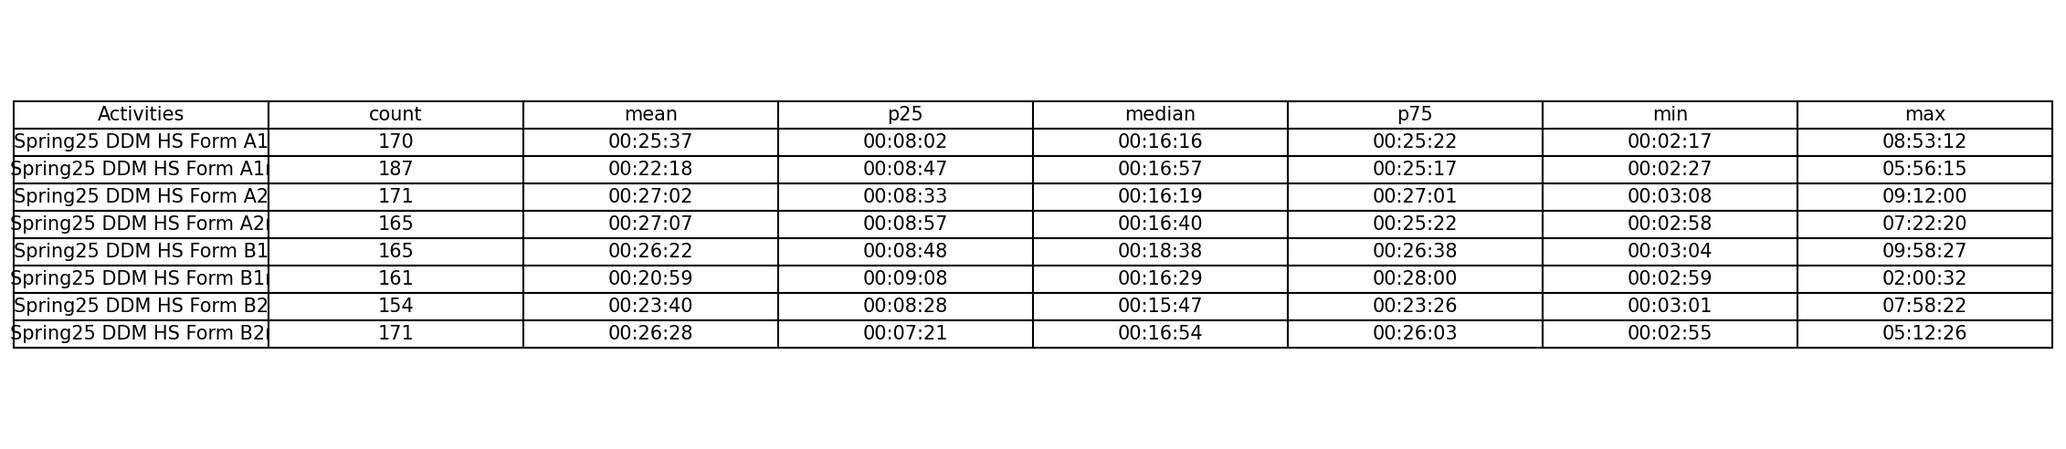
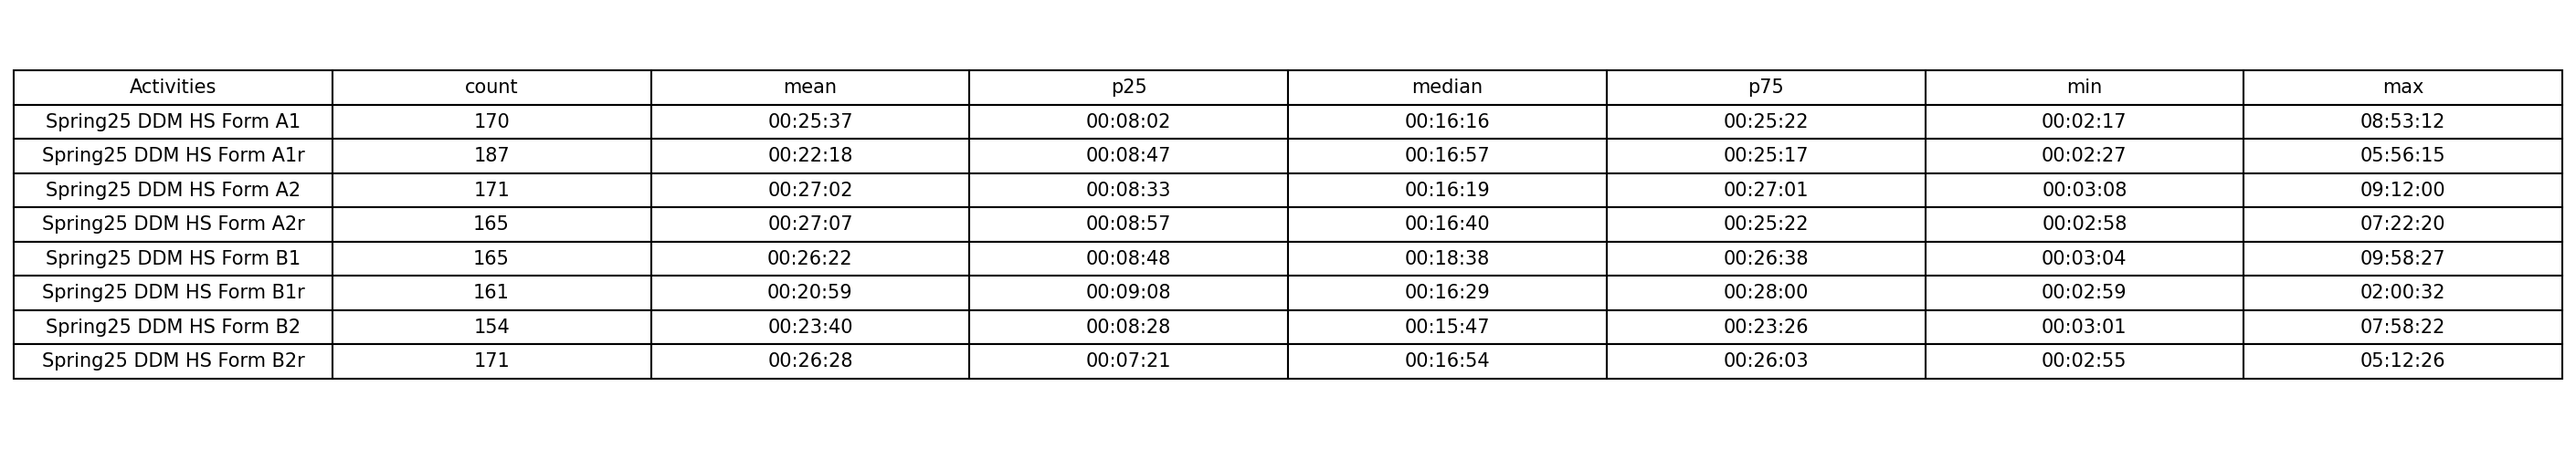
Finished

Changed region(s): [[0.0, 0.1524, 1.0, 0.8537]]

diff --git a/DDM/reporting.py b/DDM/reporting.py
@@ -32,7 +32,7 @@ def create_table_image(main_df, time_filtered_df, analysis_name):
         the_table = ax.table(cellText=df_reset.values, colLabels=df_reset.columns, loc='center', cellLoc='center')
         the_table.auto_set_font_size(False)
         the_table.set_fontsize(10)
-        the_table.scale(1.2, 1.2)
+        the_table.scale(1.5, 1.5)
         
         output_filename = f'summary_table_{analysis_name}.png'
         plt.savefig(output_filename, bbox_inches='tight', dpi=150)
